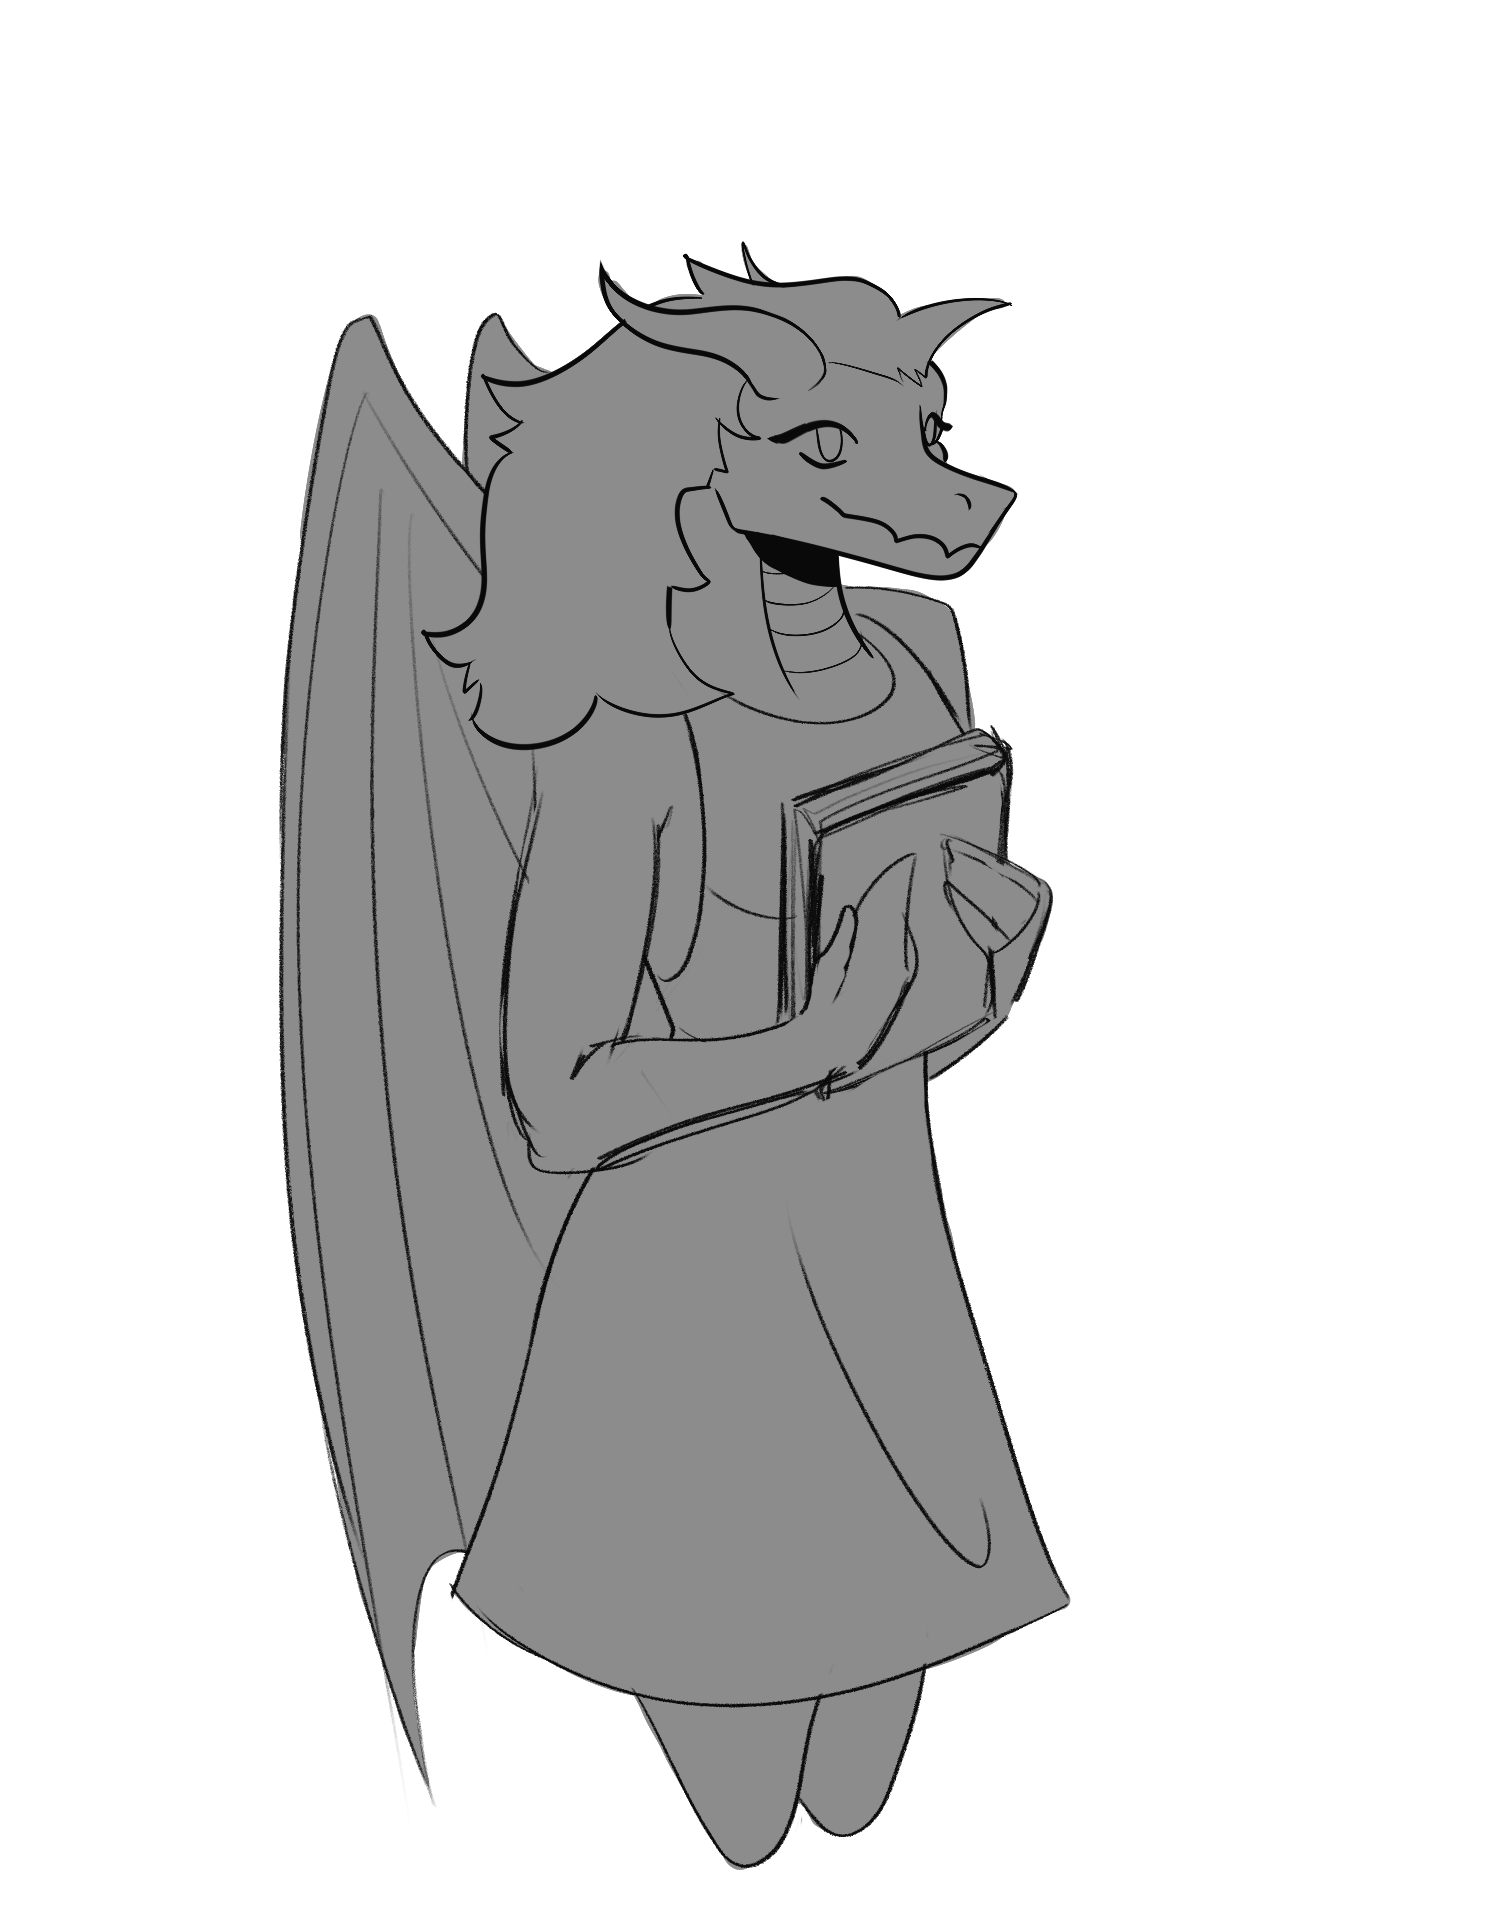
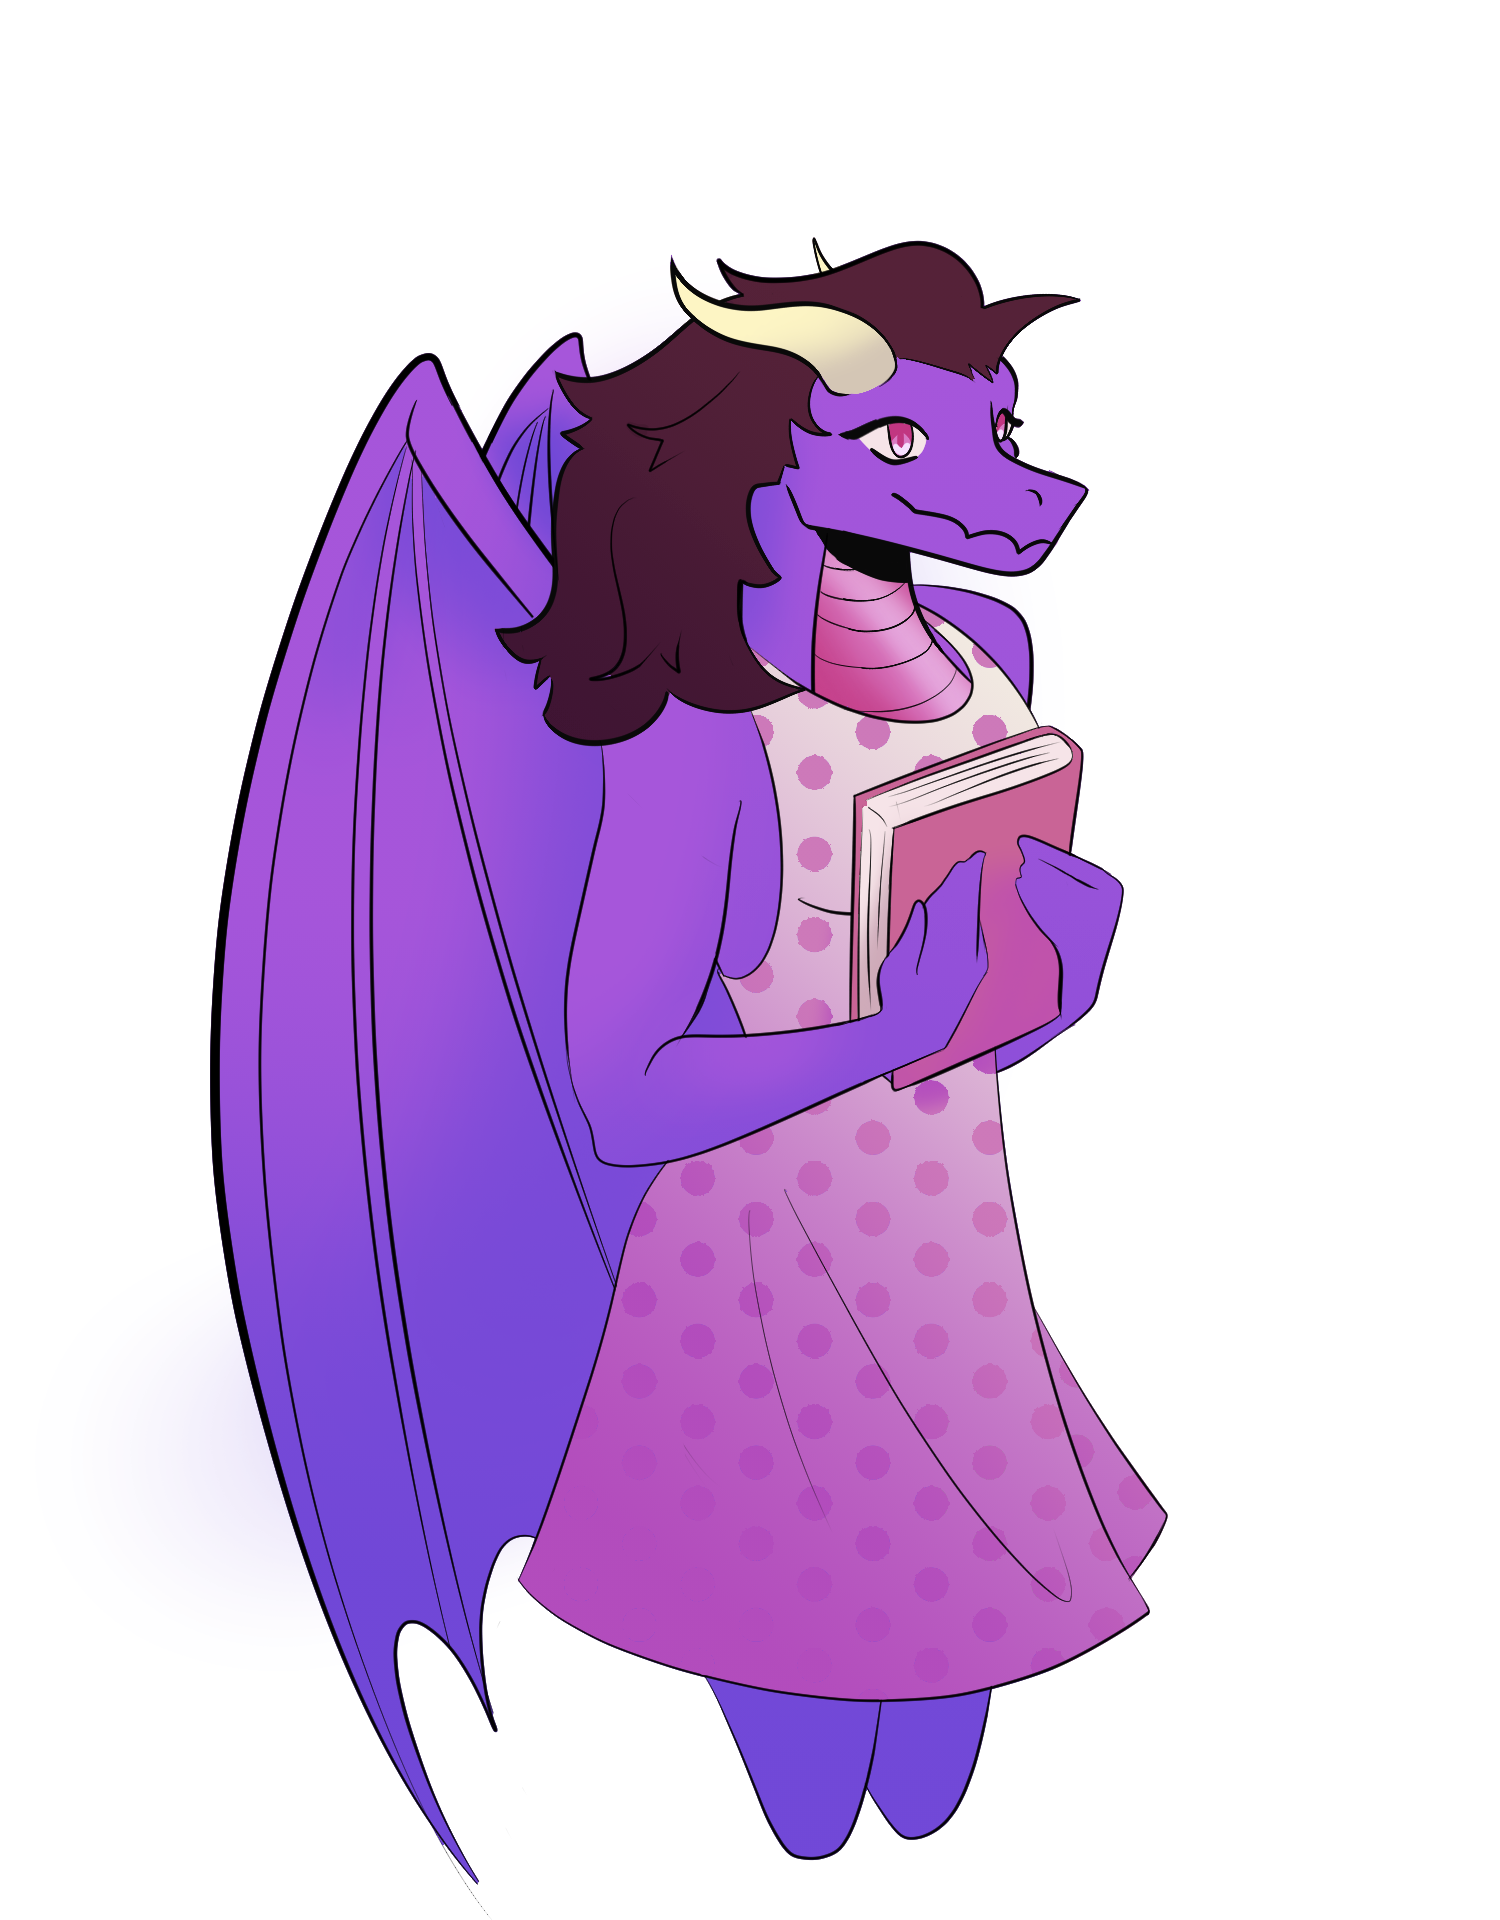
Updated PfPs
Adjusted Dragon PfPs based on feedback

diff --git a/Project Dragon Drama/Assets/Scripts/Dialogue/CutSceneController.cs b/Project Dragon Drama/Assets/Scripts/Dialogue/CutSceneController.cs
@@ -88,7 +88,7 @@ public class CutSceneController : MonoBehaviour
         dialogueTextBox.text = cutsceneManager.cutscene1.diagBank[pageIdx];
 
         //Current Cutscene Under Test:
-        chapterIdx = 9;
+        chapterIdx = 0;
     }
 
     // Update is called once per frame
